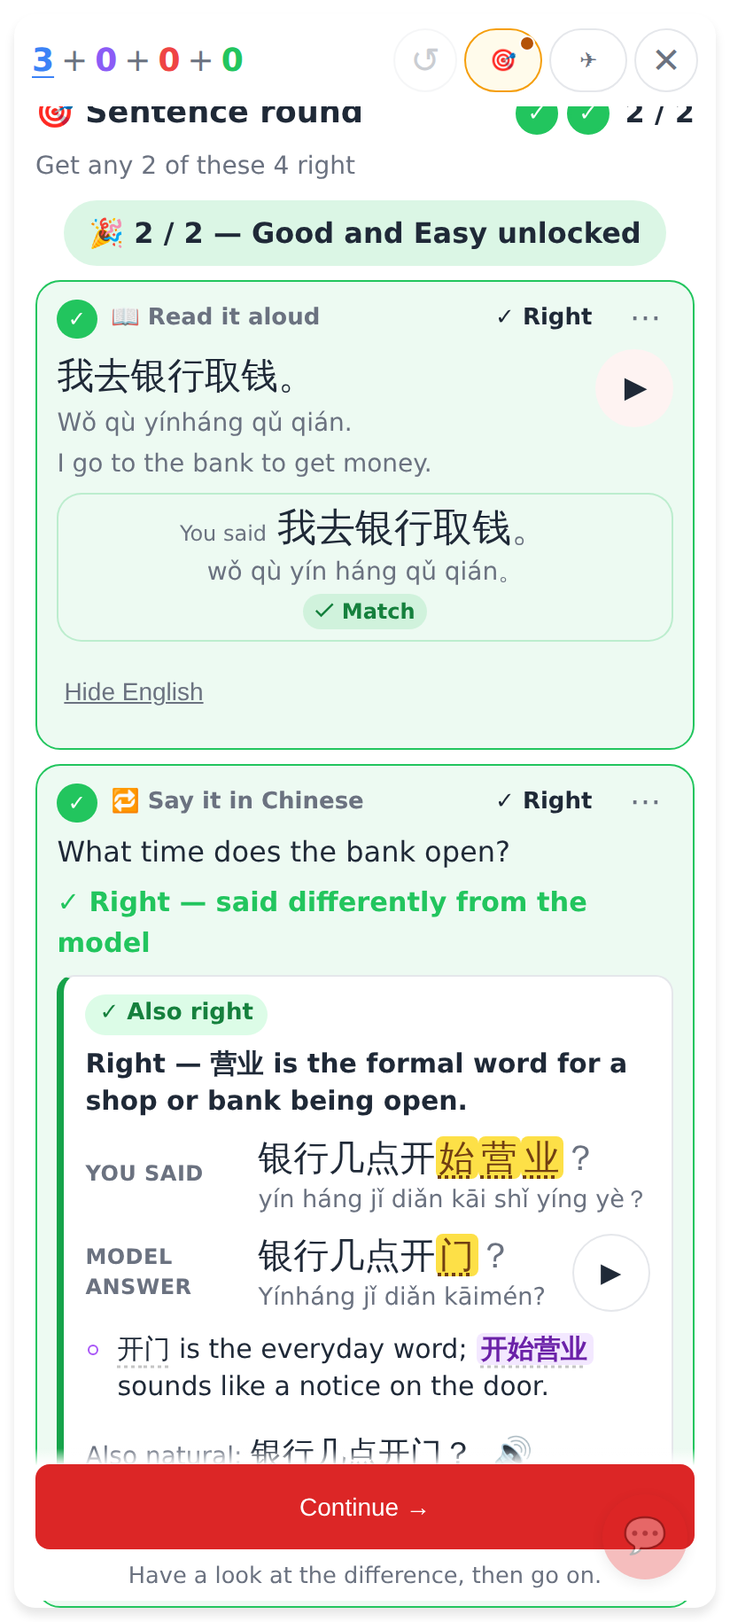
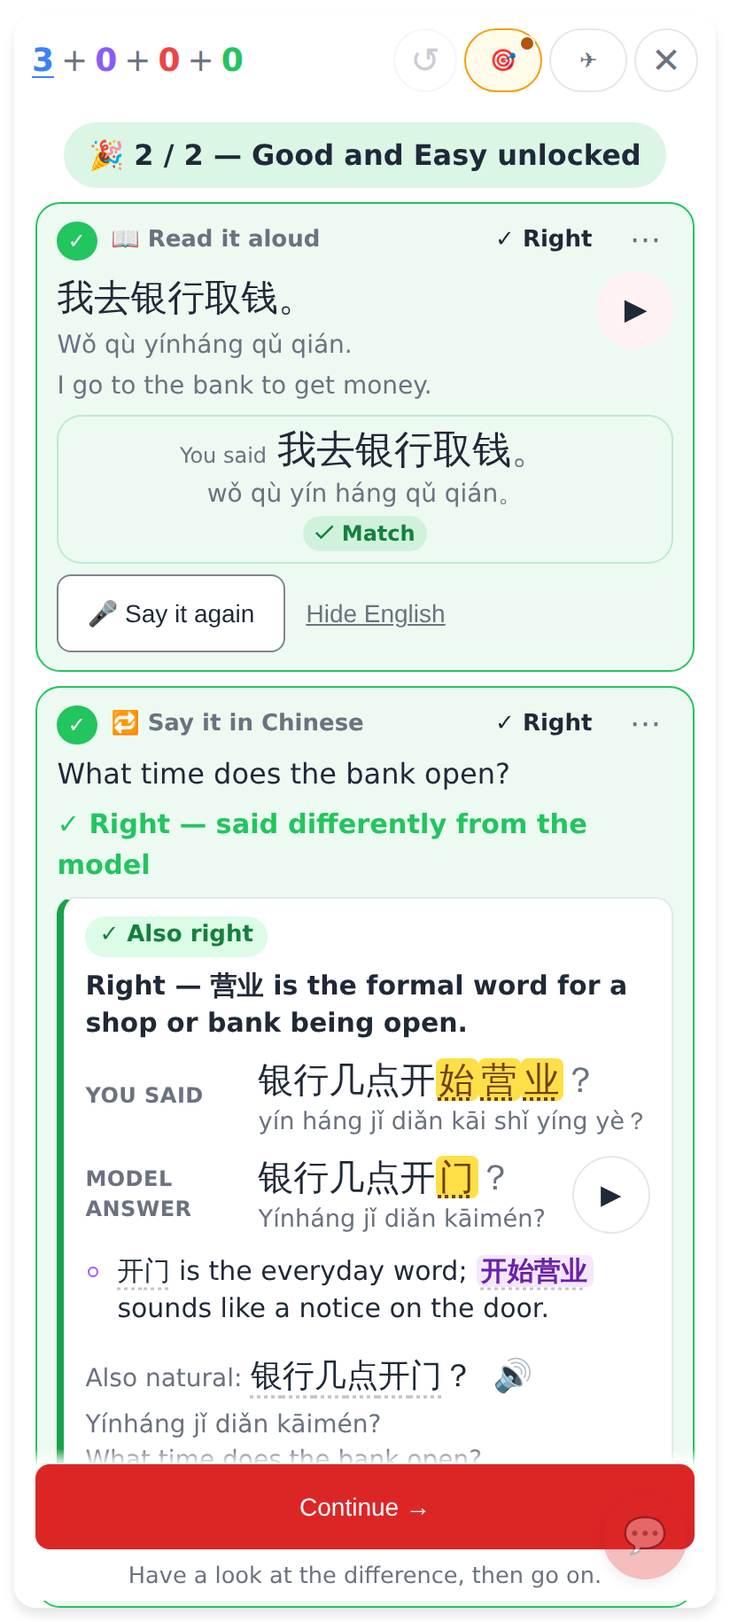
Sentence round: 🎤 Say it again on an accepted exercise (web + Lab)
Every exercise already right (read or translate, held or not) offers
"Say it again": the new take is judged the same way and its result /
comparison replaces the one shown; it never takes back a right already
counted, and after a retake (or once held) the round waits for Continue.

Claude-Session: https://claude.ai/code/session_01S2Ys2SkJDhPqV4AJdGatr3

diff --git a/android-lab/app/src/main/java/dev/jeromeswannack/chineselearning/lab/ui/study/SentenceRoundUi.kt b/android-lab/app/src/main/java/dev/jeromeswannack/chineselearning/lab/ui/study/SentenceRoundUi.kt
@@ -79,6 +79,7 @@ object SentenceRoundTags {
     const val ENGLISH_TOGGLE = "sentence-round-english-toggle"
     const val PLAY = "sentence-round-play"
     const val RETRY = "sentence-round-retry"
+    const val SAY_AGAIN = "sentence-round-say-again"
     const val SKIP = "sentence-round-skip"
     const val CONTINUE = "sentence-round-continue"
     const val MORE = "sentence-round-more"
@@ -159,6 +160,10 @@ fun SentenceRoundPage(
     // Enough right, the last one in other words: stay on it (docs/STUDY_SESSION.md "Right, but said differently").
     val lastRight = right.lastOrNull()
     val heldId = lastRight?.takeIf { id -> progress.done && differenceOf(exercises.firstOrNull { it.id == id }) != null }
+    // Once held, or once he said an accepted one again, the round waits for Continue for good: a better
+    // retake (now identical) must not send him on by itself.
+    var stayPut by remember { mutableStateOf(false) }
+    LaunchedEffect(heldId) { if (heldId != null) stayPut = true }
     var asked by remember { mutableStateOf(false) }
     LaunchedEffect(rows, stats) {
         val st = stats ?: return@LaunchedEffect
@@ -207,8 +212,8 @@ fun SentenceRoundPage(
         }
         lastGot = progress.got
     }
-    LaunchedEffect(progress.done, cheer, heldId) {
-        if (progress.done && cheer != null && heldId == null) {
+    LaunchedEffect(progress.done, cheer, heldId, stayPut) {
+        if (progress.done && cheer != null && heldId == null && !stayPut) {
             delay(1400)
             latestDone()
         }
@@ -259,6 +264,10 @@ fun SentenceRoundPage(
                         onRetry = {
                             Analytics.track("study.sentence_round", mapOf("action" to "retry", "index" to index, "mode" to ex.mode, "got" to progress.got, "needed" to progress.needed))
                         },
+                        onSayAgain = {
+                            Analytics.track("study.sentence_round", mapOf("action" to "say_again", "index" to index, "mode" to ex.mode, "got" to progress.got, "needed" to progress.needed))
+                            stayPut = true
+                        },
                         onMore = { hiding = ex },
                     )
                 }
@@ -267,7 +276,7 @@ fun SentenceRoundPage(
             Column(Modifier.fillMaxWidth().padding(top = 8.dp)) {
                 if (progress.done) {
                     PrimaryPill(
-                        "${if (heldId != null) AnswerDifference.CONTINUE else SentenceRound.SEE_ANSWER} →",
+                        "${if (heldId != null || stayPut) AnswerDifference.CONTINUE else SentenceRound.SEE_ANSWER} →",
                         Modifier.fillMaxWidth().height(56.dp).testTag(SentenceRoundTags.CONTINUE), onClick = onDone,
                     )
                     if (heldId != null) {
@@ -343,6 +352,8 @@ private fun RoundExerciseCard(
     difference: String? = null,
     held: Boolean = false,
     onSpeak: ((String) -> Unit)? = null,
+    /** 🎤 Say it again on an accepted exercise (a new take; the right already counted stays). */
+    onSayAgain: () -> Unit = {},
 ) {
     val take = practise.takes[ex.id]
     // Claude's check whole: "You said" vs the model answer carries the Chinese, its pinyin and ▶.
@@ -399,7 +410,7 @@ private fun RoundExerciseCard(
                     Text(row.translation, Modifier.testTag(SentenceRoundTags.READ_ENGLISH), color = Lab.colors.muted, fontSize = 14.sp)
                 }
             }
-            if (!isRight) SentenceMicButton(practise, row, ex.mode)
+            if (!isRight || busy) SentenceMicButton(practise, row, ex.mode)
             if (answered && !fullCheck) {
                 val playing = playingKey != null && (playingKey == row.audioUrl || playingKey == "tts:${row.hanzi}")
                 Box(
@@ -418,6 +429,16 @@ private fun RoundExerciseCard(
         SentencePractiseOutcome(practise, row, full = true, onPlayModel = { onPlay(row.audioUrl, row.hanzi) }, onSpeak = onSpeak)
         if (answered) {
             Row(Modifier.fillMaxWidth().padding(top = 6.dp), verticalAlignment = Alignment.CenterVertically, horizontalArrangement = Arrangement.spacedBy(10.dp)) {
+                if (isRight && !busy) {
+                    SecondaryPill(
+                        "🎤 ${AnswerDifference.SAY_AGAIN}", Modifier.heightIn(min = 44.dp).testTag(SentenceRoundTags.SAY_AGAIN),
+                        enabled = CoachPractise.micEnabled(practise.dictation.blocked) && !practise.listening && !practise.finishing,
+                        horizontalPadding = 14.dp, fontSize = 14.sp,
+                    ) {
+                        onSayAgain()
+                        practise.onMic(row, ex.mode)
+                    }
+                }
                 if ((status == "close" || status == "wrong") && !busy) {
                     SecondaryPill(
                         "🔁 ${SentenceRound.TRY_AGAIN}", Modifier.heightIn(min = 44.dp).testTag(SentenceRoundTags.RETRY),

diff --git a/frontend/src/components/study/SentenceRound.tsx b/frontend/src/components/study/SentenceRound.tsx
@@ -33,6 +33,7 @@ import {
   roundTakeDifference,
   DIFFERENCE_CONTINUE,
   DIFFERENCE_HOLD_NOTE,
+  DIFFERENCE_SAY_AGAIN,
   DIFFERENCE_TITLE,
   type DifferenceReason,
 } from '@shared/study/answerDifference';
@@ -244,6 +245,12 @@ export function SentenceRound({ showingKey, noteId, question, questionIsChinese,
   };
   // Enough right, the last one in other words: stay on it (docs/STUDY_SESSION.md "Right, but said differently").
   const heldId = progress.done && lastRight.current && differenceOf(exercises.find((e) => e.id === lastRight.current)) ? lastRight.current : null;
+  // Once held, or once he said an accepted one again, the round waits for Continue for good: a better
+  // retake (now identical) must not send him on by itself.
+  const [stayPut, setStayPut] = useState(false);
+  useEffect(() => {
+    if (heldId) setStayPut(true);
+  }, [heldId]);
 
   // No sentences after all: straight to the answer.
   const latest = useRef({ onDone, onSkip });
@@ -289,10 +296,10 @@ export function SentenceRound({ showingKey, noteId, question, questionIsChinese,
     // eslint-disable-next-line react-hooks/exhaustive-deps
   }, [progress.got]);
   useEffect(() => {
-    if (!progress.done || !cheer || heldId) return;
+    if (!progress.done || !cheer || heldId || stayPut) return;
     const id = window.setTimeout(() => latest.current.onDone(), 1400);
     return () => window.clearTimeout(id);
-  }, [progress.done, cheer, heldId]);
+  }, [progress.done, cheer, heldId, stayPut]);
 
   const blocked = practise.dictation.state.blocked;
   const blockNote = practiseMicEnabled(blocked) ? null : practiseBlockNote(blocked);
@@ -360,7 +367,7 @@ export function SentenceRound({ showingKey, noteId, question, questionIsChinese,
             {ex.mode === 'read' && showEnglish && row.translation && <p className="sentence-round-en is-after" data-testid="sentence-round-read-english">{row.translation}</p>}
           </div>
           <div className="sentence-round-ex-tools">
-            {!isRight && <SentenceMicButton practise={practise} row={practiseRow} mode={ex.mode} />}
+            {(!isRight || busy) && <SentenceMicButton practise={practise} row={practiseRow} mode={ex.mode} />}
             {answered && !fullCheck && (
               <button
                 type="button"
@@ -398,6 +405,21 @@ export function SentenceRound({ showingKey, noteId, question, questionIsChinese,
                 data-testid="sentence-round-retry"
               >
                 🔁 {SENTENCE_ROUND_TRY_AGAIN}
+              </button>
+            )}
+            {isRight && !busy && (
+              <button
+                type="button"
+                className="btn btn-secondary btn-sm sentence-round-retry"
+                disabled={!practiseMicEnabled(blocked) || practise.listening || practise.finishing}
+                onClick={() => {
+                  track('study.sentence_round', { action: 'say_again', index, mode: ex.mode, got: progress.got, needed: progress.needed });
+                  setStayPut(true);
+                  practise.toggle(practiseRow, ex.mode);
+                }}
+                data-testid="sentence-round-say-again"
+              >
+                🎤 {DIFFERENCE_SAY_AGAIN}
               </button>
             )}
             {ex.mode === 'read' && row.translation && (
@@ -453,7 +475,7 @@ export function SentenceRound({ showingKey, noteId, question, questionIsChinese,
         {progress.done ? (
           <>
             <button type="button" className="btn btn-primary btn-block" onClick={() => onDone()} data-testid="sentence-round-continue" data-held={heldId ? 'true' : undefined}>
-              {heldId ? DIFFERENCE_CONTINUE : SENTENCE_ROUND_SEE_ANSWER} →
+              {heldId || stayPut ? DIFFERENCE_CONTINUE : SENTENCE_ROUND_SEE_ANSWER} →
             </button>
             {heldId && <p className="sentence-round-skip-note" role="status" data-testid="difference-hold-note">{DIFFERENCE_HOLD_NOTE}</p>}
           </>

diff --git a/shared/analytics/events.ts b/shared/analytics/events.ts
@@ -112,7 +112,7 @@ export const ANALYTICS_EVENTS = {
   'study.sentence_practise': e('study', '🎤 on an example sentence row (practice only — no review, no recording kept): mode = read (said the sentence shown) | translate (English-first: said it in Chinese); result = right | close | wrong | failed | empty; via = local (judged on the device, homophones count) | claude (a translate take that wasn\'t the sentence, judged by the lesson answer check) | offline (no check to be had).', ['mode', 'result', 'via']),
   'study.sentence_gate': e('study', '"Get two sentences right before Good / Easy" (Settings → Study): action = rated (a card rated while the gate applied) | blocked (a locked Good / Easy tapped) | unlocked (the last sentence needed was said right); unlocked = Good / Easy free at that moment; needed / got = sentences; card_type.', ['action', 'unlocked', 'needed', 'got', 'card_type']),
   'study.hard_mode': e('study', 'Hard mode (docs/STUDY_SESSION.md "Hard mode"): action = set (the setting changed; mode = off | red | all; where = header | settings; the ladder\'s own actions carry where = homework in the homework pass) | right (the question\'s own answer checked right) | miss (checked close / wrong; result) | retry (🔁 Try again) | give_up (👁 Show answer / Skip before a right answer — Good and Easy locked) | next (on to the Sentence round or the answer); card_type; mode = the setting at that moment.', ['action', 'mode', 'where', 'result', 'card_type']),
-  'study.sentence_round': e('study', 'The Sentence round between a card\'s question and its answer (Settings → Study, "Sentence round before the answer"): action = shown (the round opened) | right | miss (a take judged close / wrong) | retry (Try again) | skip (Skip to the answer) | done (enough right, the answer opens unlocked); index = the exercise\'s place in the round (0–3); mode = read | translate; got / needed = exercises right so far / to get right.', ['action', 'index', 'mode', 'got', 'needed']),
+  'study.sentence_round': e('study', 'The Sentence round between a card\'s question and its answer (Settings → Study, "Sentence round before the answer"): action = shown (the round opened) | right | miss (a take judged close / wrong) | retry (Try again) | say_again (🎤 Say it again on an exercise already right — never takes the right back) | skip (Skip to the answer) | done (enough right, the answer opens unlocked); index = the exercise\'s place in the round (0–3); mode = read | translate; got / needed = exercises right so far / to get right.', ['action', 'index', 'mode', 'got', 'needed']),
   'study.round_difference_shown': e('study', 'Hard mode held an answer that was RIGHT but not the model / expected answer on the page with "You said" vs the model answer instead of going on by itself (docs/STUDY_SESSION.md "Right, but said differently"): kind = question (the card\'s own answer) | translate (a Sentence round "Say it in Chinese" take); reason = acceptable | reworded | homophone | alternative; verdict = Claude\'s check (correct | acceptable) or the device\'s (sound | alternative); where = session | homework; held = it stopped the round / question going on by itself.', ['kind', 'reason', 'verdict', 'where', 'held']),
   'study.sentence_hidden': e('study', '"Stop showing this sentence" on an example sentence (long-press / ⋯ in the Sentence round or the answer side\'s list): reason = weird | wrong | not_useful | too_rare; where = round | list. "Show again" = unhidden.', ['reason', 'where', 'unhidden']),
   'study.sentence_topup_requested': e('study', 'A word asked for more example sentences because every one left was known in both modes (3 right each) or fewer than four were left in rotation; why = known | few; queued = asked now (false = waiting for a connection).', ['why', 'queued']),

diff --git a/frontend/src/components/study/SentenceRound.test.tsx b/frontend/src/components/study/SentenceRound.test.tsx
@@ -304,6 +304,43 @@ describe('SentenceRound', () => {
       expect(track).toHaveBeenCalledWith('study.round_difference_shown', expect.objectContaining({ reason: 'reworded', held: false }));
     });
 
+    it('🎤 Say it again on an accepted exercise: a new take replaces the result, the right stays, no going on by itself', async () => {
+      const onDone = vi.fn();
+      checkLessonAnswer.mockResolvedValueOnce(check('acceptable', { headline: 'Also right — correct meaning, but slightly wordy' }));
+      await render({ onDone });
+      act(() => inEx(0, 'sentence-practise-mic')!.click());
+      act(() => dictation().land('我去银行取钱'));
+      // A plain right read: no 🎤 left, but Say it again.
+      expect(inEx(0, 'sentence-practise-mic')).toBeNull();
+      expect(inEx(0, 'sentence-round-say-again')!.textContent).toBe('🎤 Say it again');
+      act(() => inEx(1, 'sentence-practise-mic')!.click());
+      vi.useFakeTimers({ toFake: ['setTimeout', 'clearTimeout'] });
+      await act(async () => { dictation().land('我要去到那个银行'); await Promise.resolve(); await Promise.resolve(); });
+      expect(ex(1).dataset.held).toBe('true');
+      // Say it again on the held exercise: the mic opens on it (to stop it), a better take lands.
+      act(() => inEx(1, 'sentence-round-say-again')!.click());
+      expect(track).toHaveBeenCalledWith('study.sentence_round', expect.objectContaining({ action: 'say_again', index: 1, mode: 'translate' }));
+      expect(inEx(1, 'sentence-practise-mic')).not.toBeNull();
+      await act(async () => { dictation().land('我去银行'); await Promise.resolve(); });
+      expect(ex(1).dataset.status).toBe('right');
+      expect(ex(1).dataset.difference).toBeUndefined();
+      expect(inEx(1, 'sentence-practise-result')!.dataset.result).toBe('right');
+      expect(all('sentence-round-counter')[0].textContent).toContain('2 / 2');
+      act(() => { vi.advanceTimersByTime(5000); });
+      expect(onDone).not.toHaveBeenCalled();
+      // A worse take shows its feedback; the exercise stays ✓ and the count stays.
+      act(() => inEx(1, 'sentence-round-say-again')!.click());
+      checkLessonAnswer.mockResolvedValueOnce(check('wrong'));
+      await act(async () => { dictation().land('我去学校'); await Promise.resolve(); });
+      expect(ex(1).dataset.status).toBe('right');
+      expect(inEx(1, 'sentence-practise-result')!.dataset.result).toBe('wrong');
+      expect(all('sentence-round-counter')[0].textContent).toContain('2 / 2');
+      act(() => { vi.advanceTimersByTime(5000); });
+      expect(onDone).not.toHaveBeenCalled();
+      act(() => all('sentence-round-continue')[0].click());
+      expect(onDone).toHaveBeenCalledTimes(1);
+    });
+
     it('a wrong translate take shows the differences too (his in red) and keeps Try again', async () => {
       checkLessonAnswer.mockResolvedValue(check('wrong'));
       await render();

diff --git a/android-lab/app/src/test/java/dev/jeromeswannack/chineselearning/lab/ui/study/SentenceRoundUiTest.kt b/android-lab/app/src/test/java/dev/jeromeswannack/chineselearning/lab/ui/study/SentenceRoundUiTest.kt
@@ -210,6 +210,29 @@ class SentenceRoundUiTest : LabScreenshotTest() {
         compose.onNodeWithText("✓ 2/2 right — Good and Easy unlocked", useUnmergedTree = true).assertExists()
     }
 
+    private fun wordy() = take(
+        SentencePractise.TRANSLATE, "银行是在什么地方的呢", "银行在哪儿？",
+        SentenceClaude.Done(AnswerCheck("acceptable", "Also right — correct meaning, but slightly wordy and awkward phrasing.", corrected = "银行在什么地方？", suggested = "got_it")),
+    )
+
+    /** 🎤 Say it again on an accepted exercise: a new take, the right (and the count) kept, never on by itself. */
+    @Test fun sayItAgainOnAnAcceptedExercise() {
+        val practise = previewSentencePractise(takes = mapOf("translate:s1" to wordy()), rightKeys = listOf("read:$clueKey", "translate:s1"))
+        card(practise)
+        assertEquals(2, count(SentenceRoundTags.SAY_AGAIN))
+        compose.onAllNodesWithTag(SentenceRoundTags.SAY_AGAIN, useUnmergedTree = true)[1].performScrollTo()
+        compose.mainClock.advanceTimeBy(500)
+        compose.onAllNodesWithTag(SentenceRoundTags.SAY_AGAIN, useUnmergedTree = true)[1].performClick()
+        assertEquals("translate:s1", practise.activeKey)
+        assertEquals(SentencePractise.TRANSLATE, practise.activeMode)
+        compose.runOnIdle { practise.takes["translate:s1"] = take(SentencePractise.TRANSLATE, "我去学校", "银行在哪儿？") }
+        compose.mainClock.advanceTimeBy(4_000)
+        assertEquals(1, count(SentenceRoundTags.ROUND))
+        assertEquals(listOf("read:$clueKey", "translate:s1"), practise.rightKeys.toList())
+        compose.onNodeWithText("2 / 2", useUnmergedTree = true).assertExists()
+        compose.onNodeWithText("Continue →", useUnmergedTree = true).assertExists()
+    }
+
     @Test fun identicalTakeStillGoesOnByItself() {
         val practise = previewSentencePractise(rightKeys = listOf("read:$clueKey"))
         card(practise)
@@ -297,5 +320,12 @@ class SentenceRoundUiTest : LabScreenshotTest() {
         compose.onNodeWithTag(DifferenceTags.TITLE, useUnmergedTree = true).performScrollTo()
         compose.mainClock.advanceTimeBy(500)
         shot("sentence-round-08-held-difference")
+    }
+
+    @Test fun shotSayItAgain() {
+        card(previewSentencePractise(takes = mapOf("translate:s1" to wordy()), rightKeys = listOf("read:$clueKey", "translate:s1")))
+        compose.onAllNodesWithTag(SentenceRoundTags.SAY_AGAIN, useUnmergedTree = true)[1].performScrollTo()
+        compose.mainClock.advanceTimeBy(500)
+        shot("sentence-round-09-say-it-again")
     }
 }

diff --git a/e2e/tests/study-sentence-gate.spec.ts b/e2e/tests/study-sentence-gate.spec.ts
@@ -380,6 +380,23 @@ test('right, but said differently: a reworded translation that finishes the roun
   await second.scrollIntoViewIfNeeded();
   await shot(page, 'diff-01-round-held');
 
+  // 🎤 Say it again on the accepted exercise: a better take replaces the result; the ✓ and the count stay,
+  // and the round still waits for Continue.
+  const again = second.getByTestId('sentence-round-say-again');
+  await expect(again).toHaveText('🎤 Say it again');
+  await again.evaluate((el) => el.scrollIntoView({ block: 'center' }));
+  await shot(page, 'diff-02-say-it-again');
+  await hear(page, SET[0].hanzi);
+  await again.click();
+  await expect(second.getByTestId('sentence-practise-live')).toContainText(SET[0].hanzi.replace(/[。？]/g, ''), { timeout: 10000 });
+  await second.getByTestId('sentence-practise-mic').click();
+  await expect(second.getByTestId('sentence-practise-result')).toHaveAttribute('data-result', 'right', { timeout: 10000 });
+  await expect(second).toHaveAttribute('data-status', 'right');
+  await expect(second).not.toHaveAttribute('data-difference', /.+/);
+  await expect(page.getByTestId('sentence-round-counter')).toContainText('2 / 2');
+  await page.waitForTimeout(2500);
+  await expect(page.getByTestId('study-card-back')).toHaveCount(0);
+
   const go = page.getByTestId('sentence-round-continue');
   await expect(go).toHaveText('Continue →');
   await go.click();

diff --git a/android-lab/parity/fixtures/answer-difference.ts b/android-lab/parity/fixtures/answer-difference.ts
@@ -7,7 +7,7 @@ import { writeFileSync, mkdirSync } from 'node:fs';
 import { join } from 'node:path';
 import {
   roundTakeDifference, questionDifference, differenceLines, sameAnswerWords, DIFFERENCE_REASONS, DIFFERENCE_TITLE,
-  DIFFERENCE_SAID, DIFFERENCE_MODEL, DIFFERENCE_CARD, DIFFERENCE_HOLD_NOTE, DIFFERENCE_CONTINUE,
+  DIFFERENCE_SAID, DIFFERENCE_MODEL, DIFFERENCE_CARD, DIFFERENCE_HOLD_NOTE, DIFFERENCE_CONTINUE, DIFFERENCE_SAY_AGAIN,
 } from '../../../shared/study/answerDifference';
 import type { SpokenResultState } from '../../../shared/cards/spoken-result';
 import type { AnswerCheckVerdict } from '../../../shared/lesson/answerCheck';
@@ -45,6 +45,6 @@ writeFileSync(join(OUT, 'answer-difference.json'), JSON.stringify({
   round, question, same, lines,
   copy: {
     reasons: DIFFERENCE_REASONS, title: DIFFERENCE_TITLE, said: DIFFERENCE_SAID, model: DIFFERENCE_MODEL, card: DIFFERENCE_CARD,
-    holdNote: DIFFERENCE_HOLD_NOTE, continue: DIFFERENCE_CONTINUE,
+    holdNote: DIFFERENCE_HOLD_NOTE, continue: DIFFERENCE_CONTINUE, sayAgain: DIFFERENCE_SAY_AGAIN,
   },
 }, null, 1));

diff --git a/shared/study/answerDifference.ts b/shared/study/answerDifference.ts
@@ -102,3 +102,10 @@ export const DIFFERENCE_CARD = 'The card';
 /** Under the comparison while it holds the page. */
 export const DIFFERENCE_HOLD_NOTE = 'Have a look at the difference, then go on.';
 export const DIFFERENCE_CONTINUE = 'Continue';
+/**
+ * On an accepted (✓ Right) round exercise — read or translate, held or not: say it again to get it
+ * better (Jerome: "Also right — … slightly wordy" → he wants another go). The new take is judged the
+ * same way and its result replaces the one shown; it never takes back a right already counted, and the
+ * round never goes on by itself after one.
+ */
+export const DIFFERENCE_SAY_AGAIN = 'Say it again';

diff --git a/android-lab/core/src/main/kotlin/dev/jeromeswannack/chineselearning/lab/core/AnswerDifference.kt b/android-lab/core/src/main/kotlin/dev/jeromeswannack/chineselearning/lab/core/AnswerDifference.kt
@@ -61,4 +61,6 @@ object AnswerDifference {
     const val CARD = "The card"
     const val HOLD_NOTE = "Have a look at the difference, then go on."
     const val CONTINUE = "Continue"
+    /** `DIFFERENCE_SAY_AGAIN`: another take on an accepted round exercise (never takes the right back). */
+    const val SAY_AGAIN = "Say it again"
 }

diff --git a/android-lab/core/src/test/kotlin/dev/jeromeswannack/chineselearning/lab/core/AnswerDifferenceParityTest.kt b/android-lab/core/src/test/kotlin/dev/jeromeswannack/chineselearning/lab/core/AnswerDifferenceParityTest.kt
@@ -76,5 +76,6 @@ class AnswerDifferenceParityTest {
         assertEquals(c["card"]!!.str, AnswerDifference.CARD)
         assertEquals(c["holdNote"]!!.str, AnswerDifference.HOLD_NOTE)
         assertEquals(c["continue"]!!.str, AnswerDifference.CONTINUE)
+        assertEquals(c["sayAgain"]!!.str, AnswerDifference.SAY_AGAIN)
     }
 }

diff --git a/android-lab/PARITY.md b/android-lab/PARITY.md
@@ -79,7 +79,7 @@ Owns `ui/study/` (CardStage, StudyScreen, StudyViewModel, Sentences), `core/…/
 | Example sentences (clue row + set, tap-to-reveal, EN mode, show all, 🎤 read / translate a row, "Get two sentences right before Good / Easy") | ✅ | `components/SentenceSet.tsx` | `ui/study/Sentences.kt` |
 | Sentence round before the answer (up to 4 exercises, each sentence once: 2 read + 2 say it in Chinese, any 2 right unlock Good / Easy, Skip, resume; the round's sentences outlined + opened on top of the answer side) | ✅ | `components/study/SentenceRound.tsx`, `components/SentenceSet.tsx` | `ui/study/SentenceRoundUi.kt`, `ui/study/Sentences.kt` |
 | Hard mode (Off · Red cards only · All — 🎯 header chip + Settings; the question's answer checked first, ✗ Try again / 👁 Show answer = a miss with Good / Easy locked, ✓ → the round; resume) | ✅ | `components/study/HardModeChip.tsx`, `HardModeFeedback.tsx`, `pages/StudyPage.tsx` | `ui/study/HardModeUi.kt`, `ui/study/CardStage.kt` |
-| Hard mode: **right, but said differently** (an accepted answer that isn't the model — Claude's acceptable / correct in other words, a translate homophone, the question's homophone / alternative — holds the round / the check with "You said" vs the model answer, differences marked, pinyin of both, ▶, Claude's tips / fix / alternative, Continue →; session + homework pass) | ✅ core `AnswerDifference` parity-tested (`parity/fixtures/answer-difference.ts`); `SentenceRoundUiTest`, `HardModeUiTest`, Roborazzi `sentence-round-08`, `hard-mode-09` | `shared/study/answerDifference.ts`, `components/study/DifferenceCompare.tsx`, `SentenceRound.tsx`, `HardModeFeedback.tsx` | `core/…/AnswerDifference.kt`, `ui/study/DifferenceCompare.kt`, `SentenceRoundUi.kt`, `HardModeUi.kt` |
+| Hard mode: **right, but said differently** (an accepted answer that isn't the model — Claude's acceptable / correct in other words, a translate homophone, the question's homophone / alternative — holds the round / the check with "You said" vs the model answer, differences marked, pinyin of both, ▶, Claude's tips / fix / alternative, Continue →; 🎤 Say it again on every accepted round exercise — a new take, the right kept, no auto-advance; session + homework pass) | ✅ core `AnswerDifference` parity-tested (`parity/fixtures/answer-difference.ts`); `SentenceRoundUiTest`, `HardModeUiTest`, Roborazzi `sentence-round-08`, `hard-mode-09` | `shared/study/answerDifference.ts`, `components/study/DifferenceCompare.tsx`, `SentenceRound.tsx`, `HardModeFeedback.tsx` | `core/…/AnswerDifference.kt`, `ui/study/DifferenceCompare.kt`, `SentenceRoundUi.kt`, `HardModeUi.kt` |
 | Sentence practice history (🎤 takes per sentence synced, the round picks the least known, "Stop showing this sentence" + Show hidden, "✨ New sentences coming") | ✅ | `services/sentencePractice.ts`, `components/study/SentenceHideSheet.tsx` | `data/sentences/SentencePracticeStore.kt`, `ui/study/SentenceHideUi.kt` |
 | "Use in sentence" hint on the front | ✅ stored clue shown / played; generated when the note has none, ↻ regenerates (online) | `StudyPage.tsx` | `CardStage.kt` |
 | Undo last review (incl. server DELETE) | ✅ | `useStudySession.ts` undo | `StudyViewModel.undoLast` |

diff --git a/docs/STUDY_SESSION.md b/docs/STUDY_SESSION.md
@@ -1187,6 +1187,12 @@ answer that is **accepted but not the model / expected answer** never goes on by
   **Continue →** (the cheer and confetti still come; Good / Easy, or Got it, are unlocked: it counts as right); the
   question's ✓ stays up with **Next: harder questions →**. A difference on the first of two never holds anything —
   the round only ever went on by itself once done.
+- **🎤 Say it again** (Jerome: "Also right — correct meaning, but slightly wordy" → he wants another go): every
+  accepted round exercise — read or translate, held or not — has **🎤 Say it again** instead of a locked card. The
+  new take is judged exactly the same way (device rule, then Claude's check) and its result / comparison replaces the
+  one shown; it **never takes back a right already counted** (a worse retake shows its feedback, the exercise stays
+  ✓ and the count stays), and after a retake (or once held) the round never goes on by itself — Continue →.
+  Analytics `study.sentence_round { action: say_again }`.
 - Rules: `roundTakeDifference`, `questionDifference`, `differenceLines`, `sameAnswerWords` + the words, Lab
   `core/…/AnswerDifference.kt`, parity-tested (`parity/fixtures/answer-difference.ts` → `AnswerDifferenceParityTest`).
   Web `components/study/DifferenceCompare.tsx` (in `SentenceRound.tsx` via `SentencePractiseOutcome full`, and
